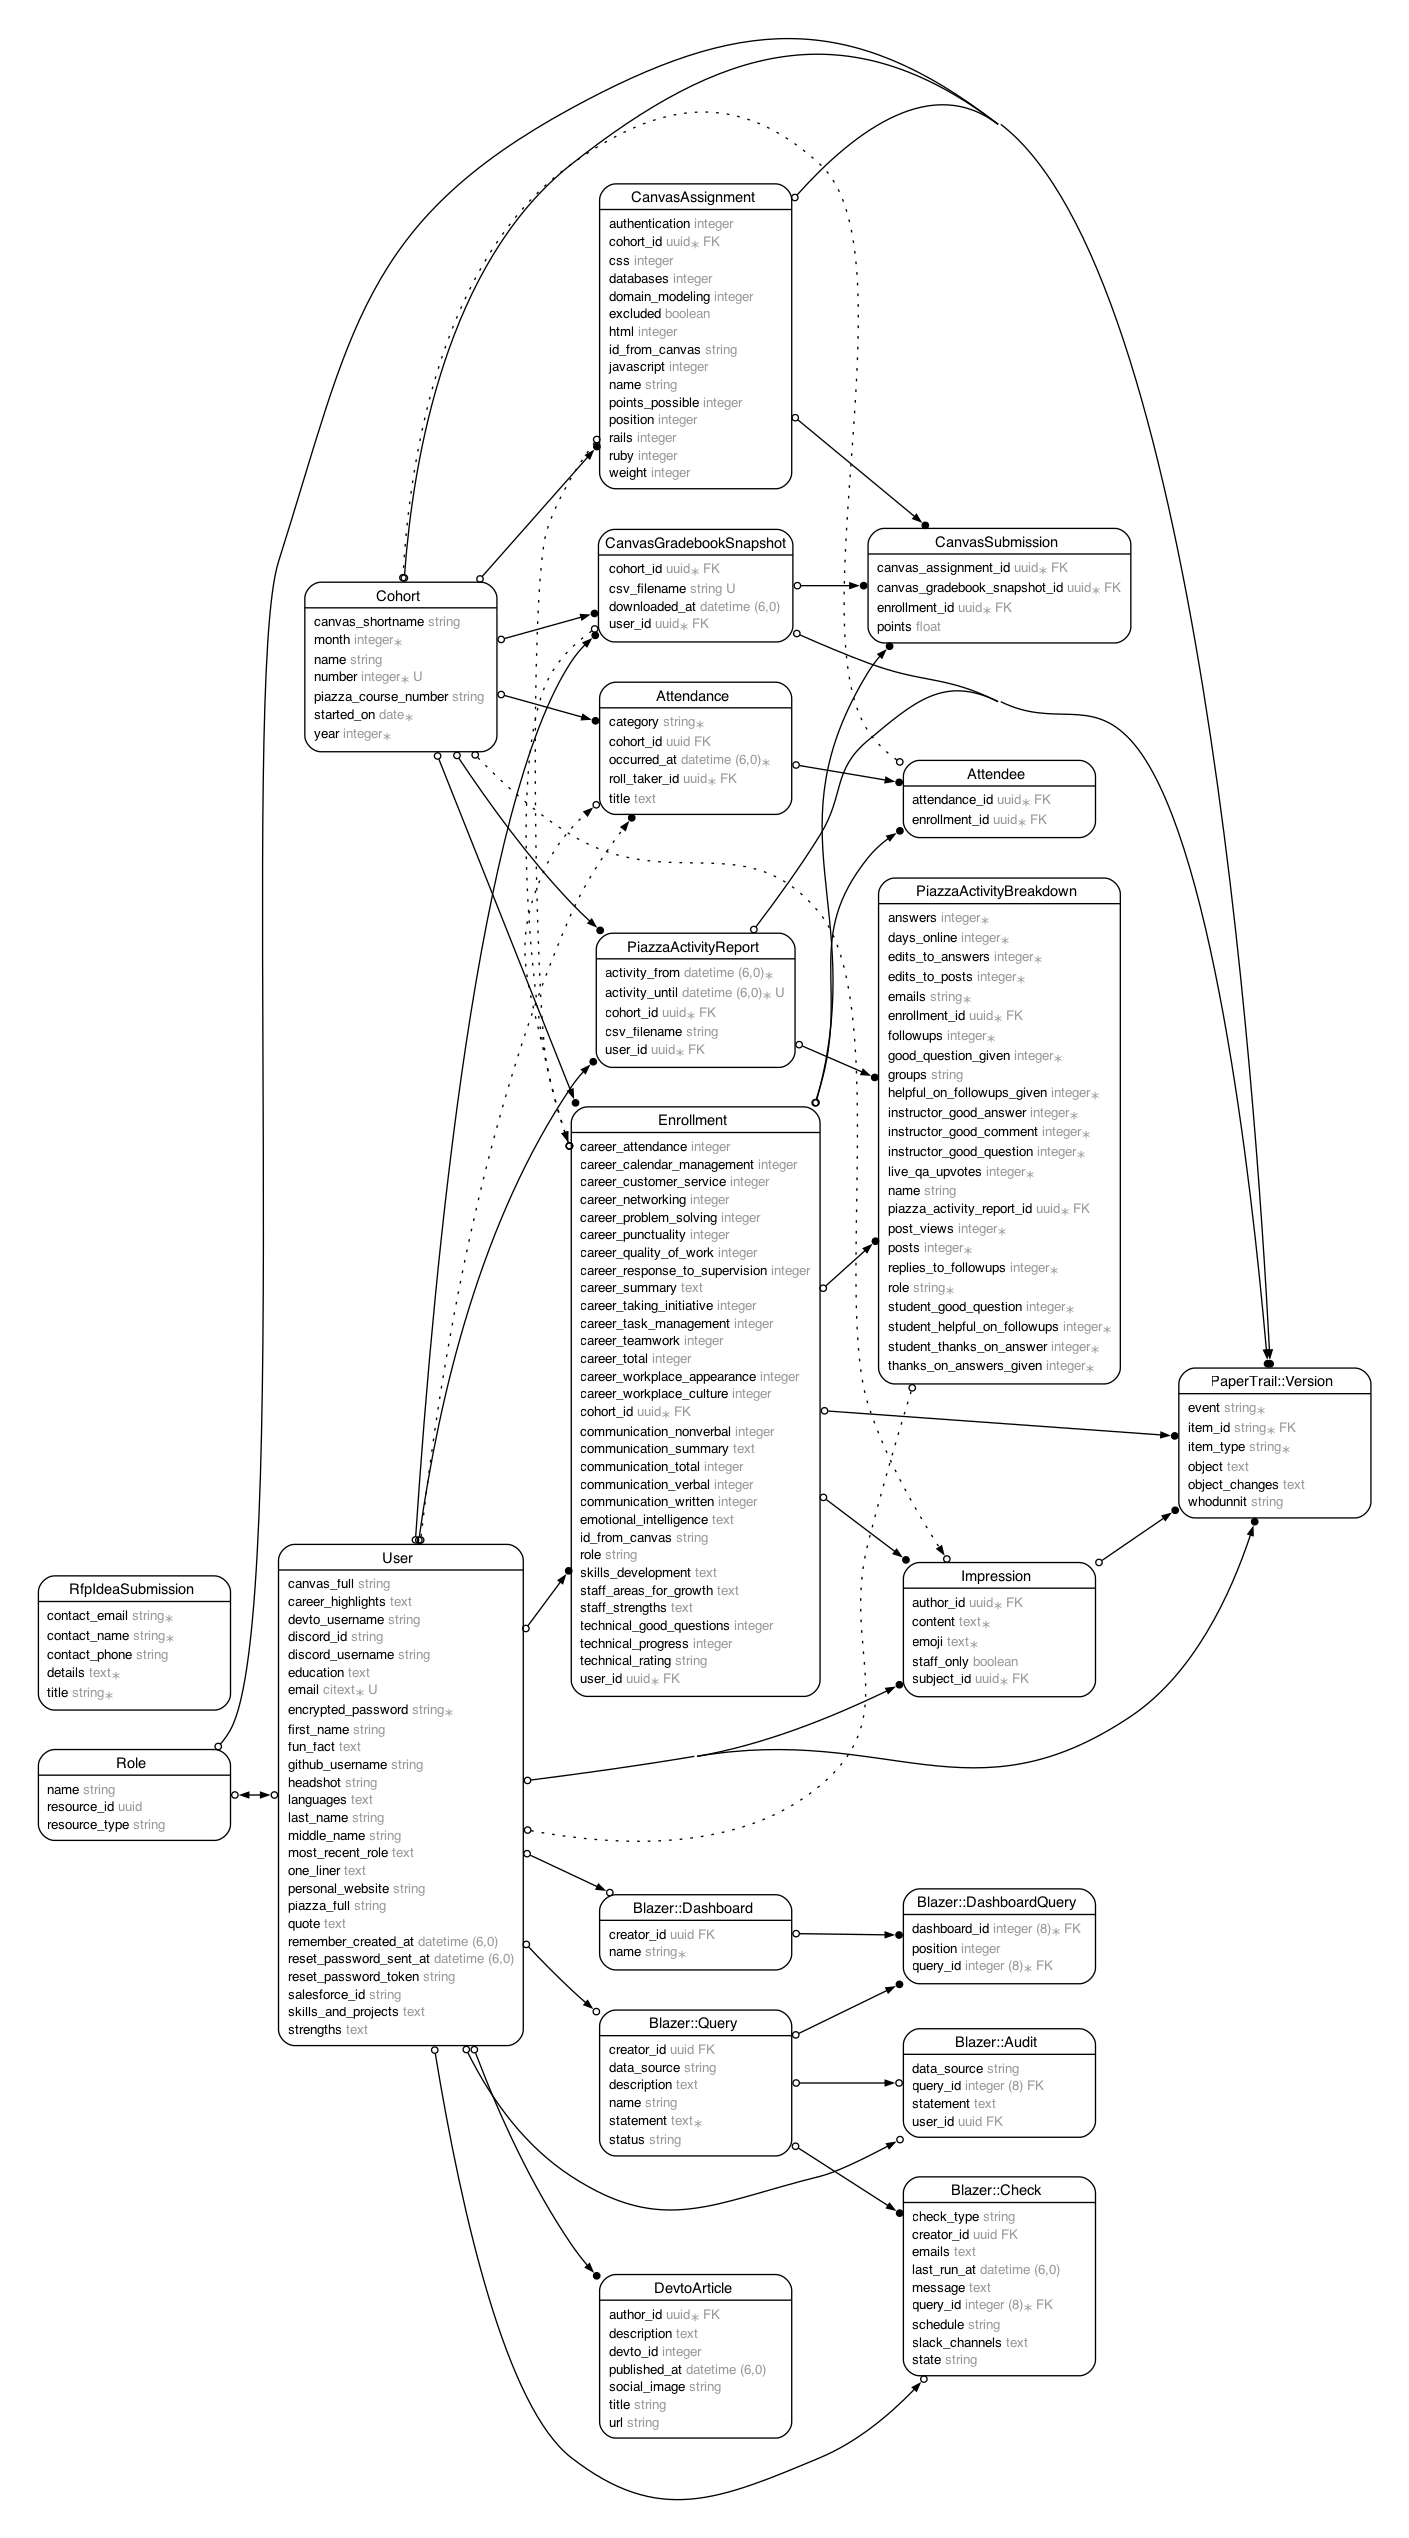
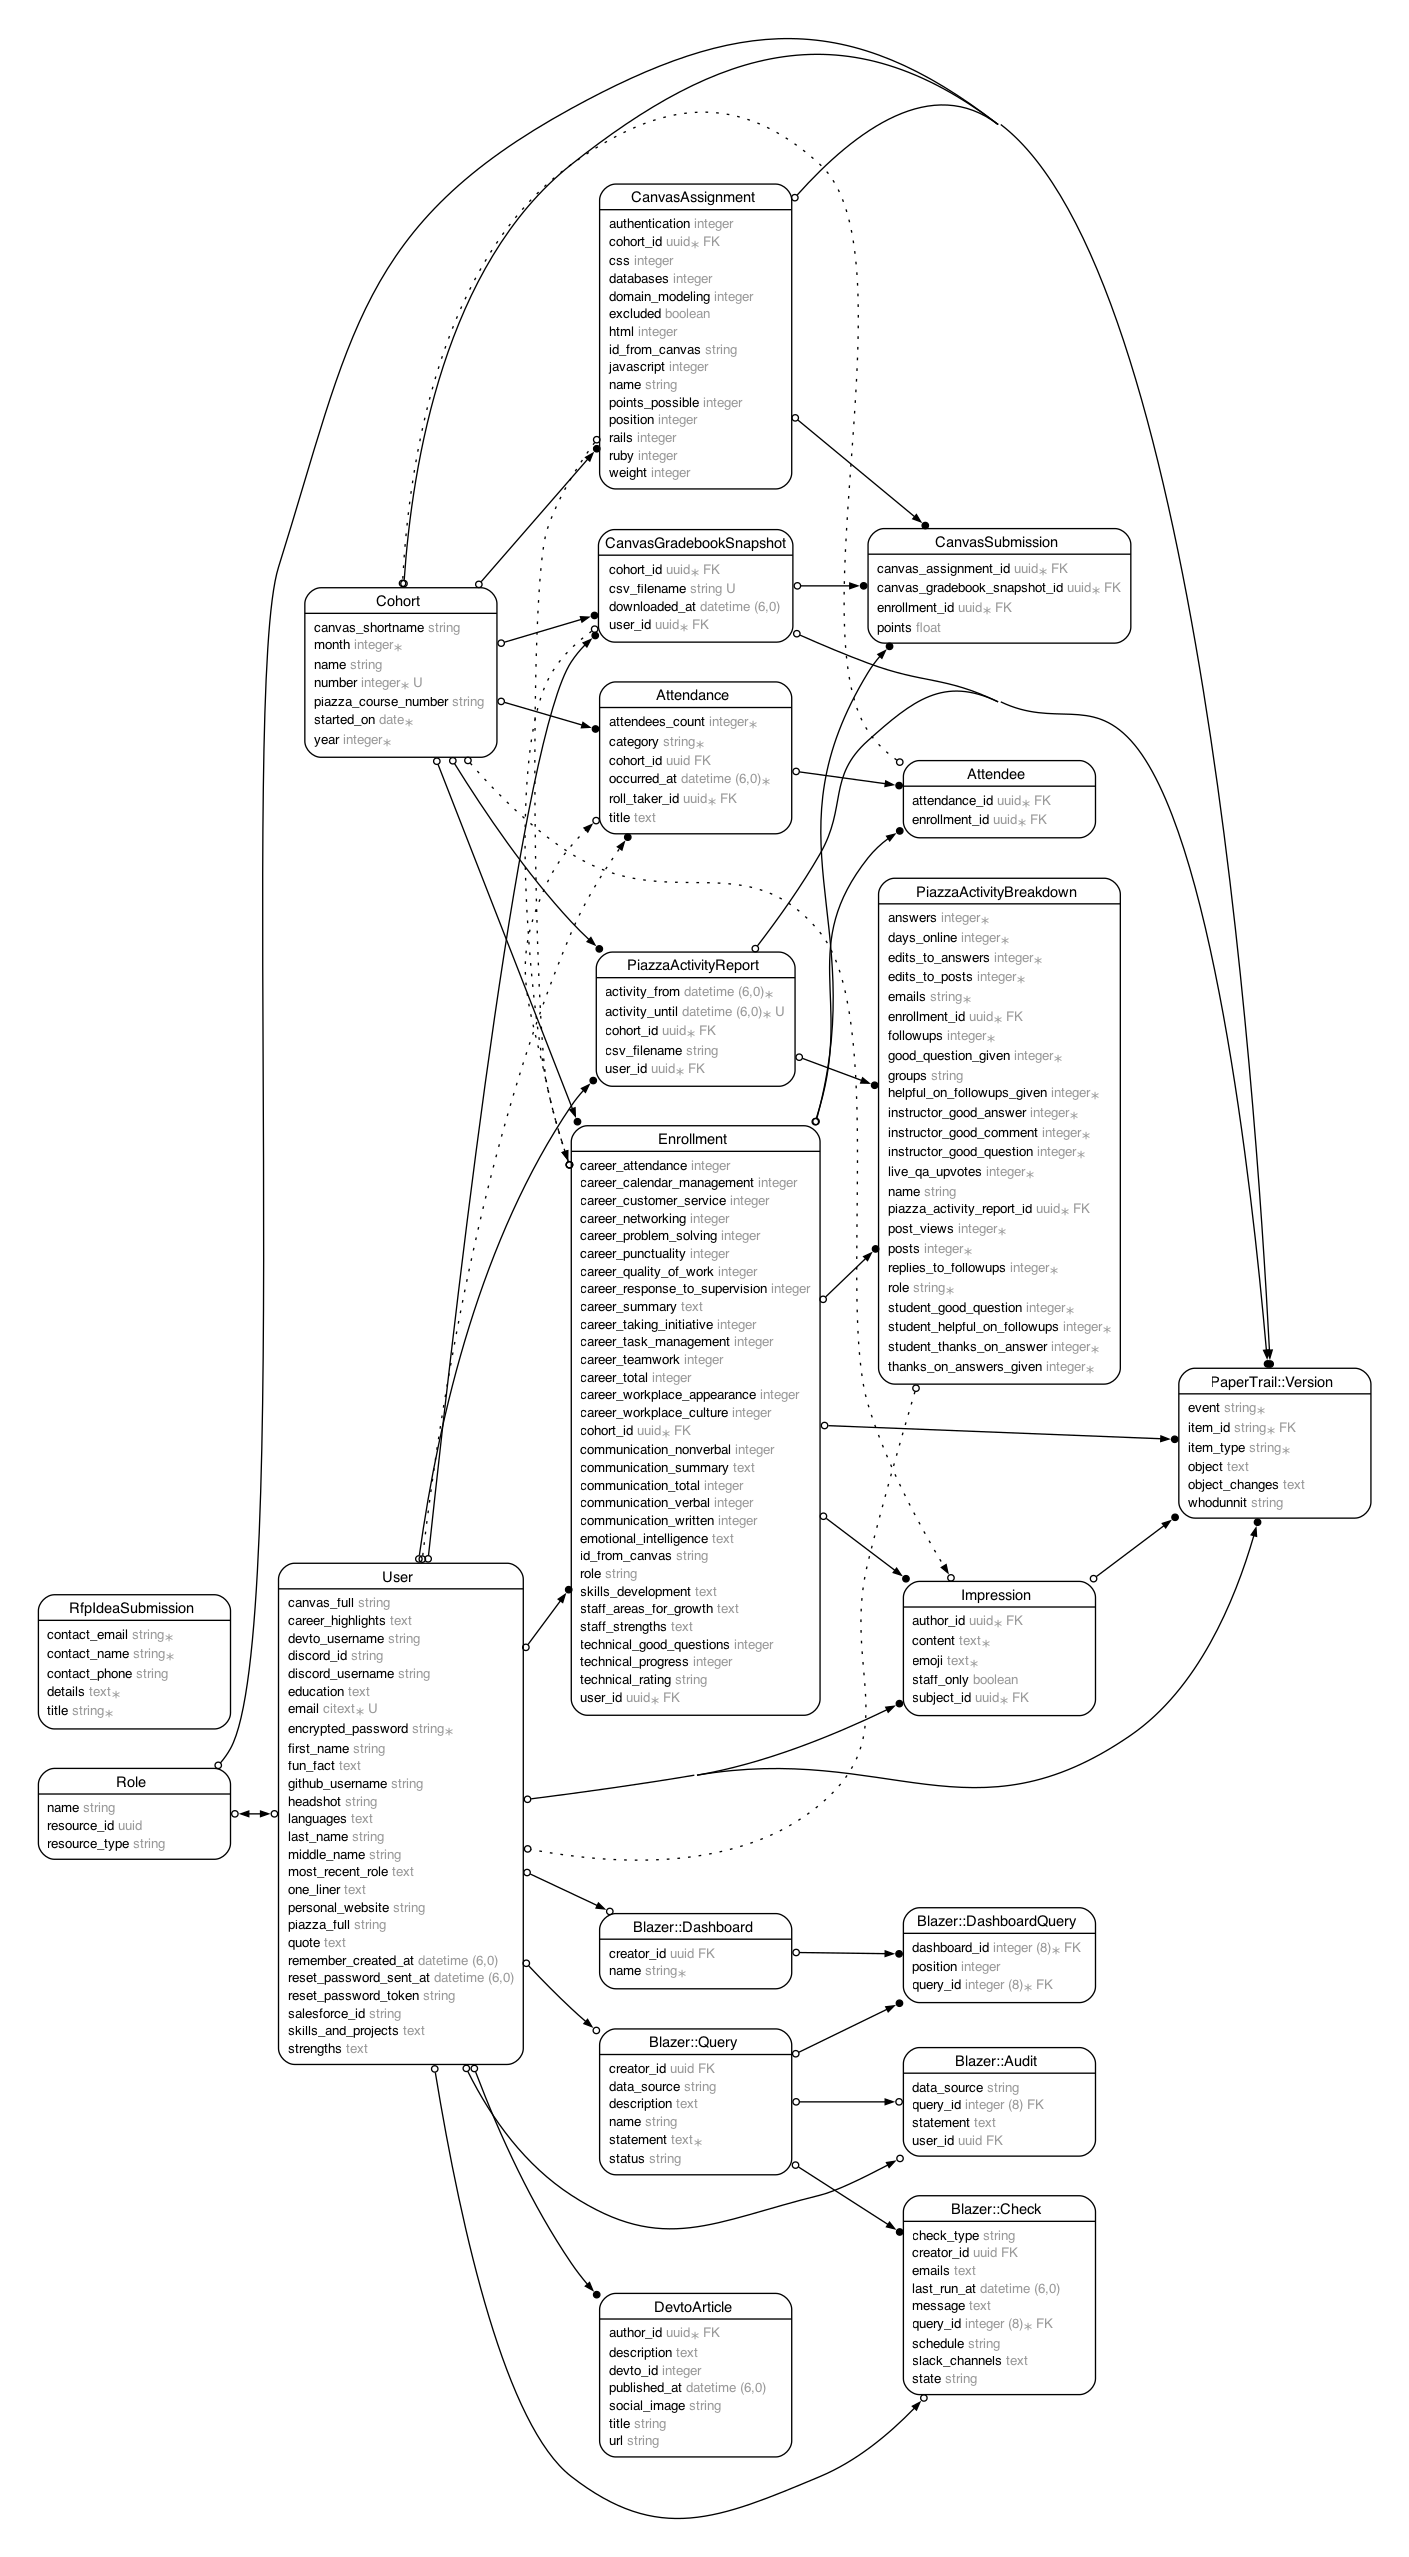
Implement counter cache

diff --git a/app/models/attendance.rb b/app/models/attendance.rb
@@ -2,14 +2,15 @@
 #
 # Table name: attendances
 #
-#  id            :uuid             not null, primary key
-#  category      :string           not null
-#  occurred_at   :datetime         not null
-#  title         :text
-#  created_at    :datetime         not null
-#  updated_at    :datetime         not null
-#  cohort_id     :uuid
-#  roll_taker_id :uuid             not null
+#  id              :uuid             not null, primary key
+#  attendees_count :integer          default(0), not null
+#  category        :string           not null
+#  occurred_at     :datetime         not null
+#  title           :text
+#  created_at      :datetime         not null
+#  updated_at      :datetime         not null
+#  cohort_id       :uuid
+#  roll_taker_id   :uuid             not null
 #
 # Indexes
 #

diff --git a/db/schema.rb b/db/schema.rb
@@ -10,7 +10,7 @@
 #
 # It's strongly recommended that you check this file into your version control system.
 
-ActiveRecord::Schema[7.0].define(version: 2025_02_03_211855) do
+ActiveRecord::Schema[7.0].define(version: 2025_03_13_182249) do
   # These are extensions that must be enabled in order to support this database
   enable_extension "citext"
   enable_extension "pgcrypto"
@@ -24,6 +24,7 @@ ActiveRecord::Schema[7.0].define(version: 2025_02_03_211855) do
     t.uuid "cohort_id"
     t.datetime "created_at", null: false
     t.datetime "updated_at", null: false
+    t.integer "attendees_count", default: 0, null: false
     t.index ["cohort_id"], name: "index_attendances_on_cohort_id"
     t.index ["roll_taker_id"], name: "index_attendances_on_roll_taker_id"
   end

diff --git a/db/migrate/20250313182249_add_attendees_count_to_attendance.rb b/db/migrate/20250313182249_add_attendees_count_to_attendance.rb
@@ -1,0 +1,14 @@
+class AddAttendeesCountToAttendance < ActiveRecord::Migration[7.0]
+  def up
+    add_column :attendances, :attendees_count, :integer, default: 0, null: false
+
+    Attendance.reset_column_information
+    Attendance.find_each do |attendance|
+      Attendance.reset_counters(attendance.id, :attendees)
+    end
+  end
+
+  def down
+    remove_column :attendances, :attendees_count
+  end
+end

diff --git a/app/models/attendee.rb b/app/models/attendee.rb
@@ -22,7 +22,7 @@
 class Attendee < ApplicationRecord
   attr_accessor :_destroy
 
-  belongs_to :attendance
+  belongs_to :attendance, counter_cache: true
   belongs_to :enrollment
 
   has_one :cohort, through: :attendance
